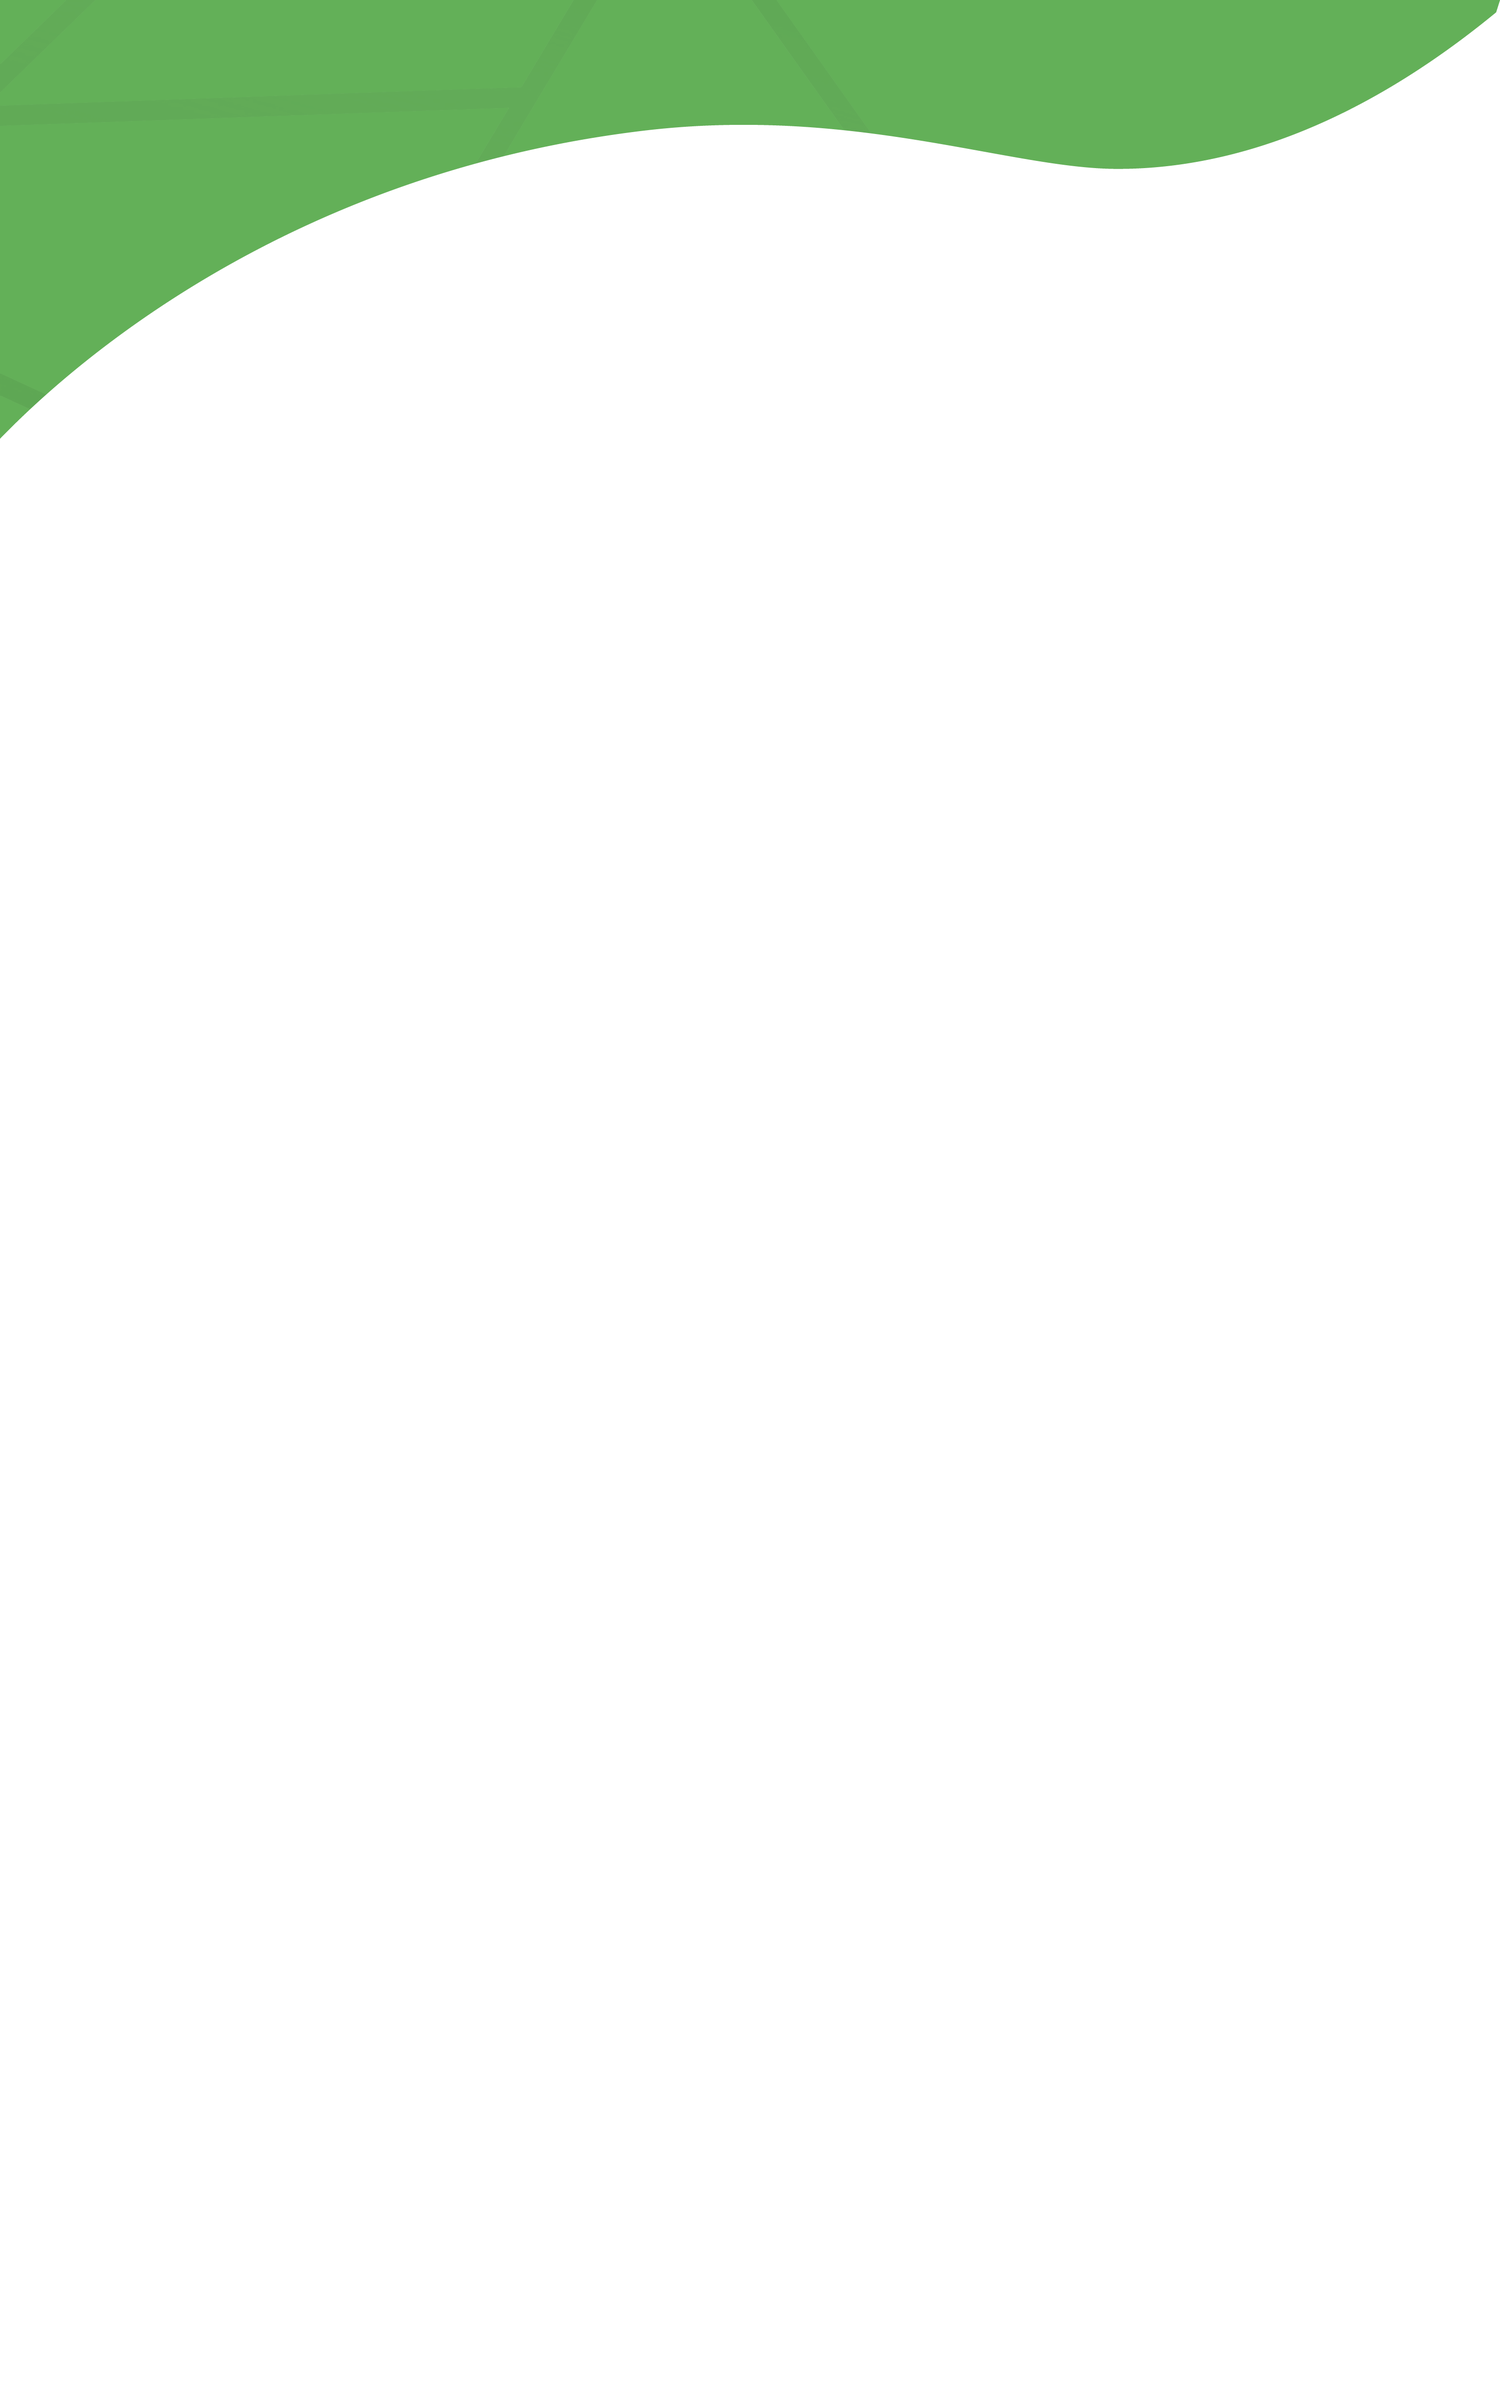
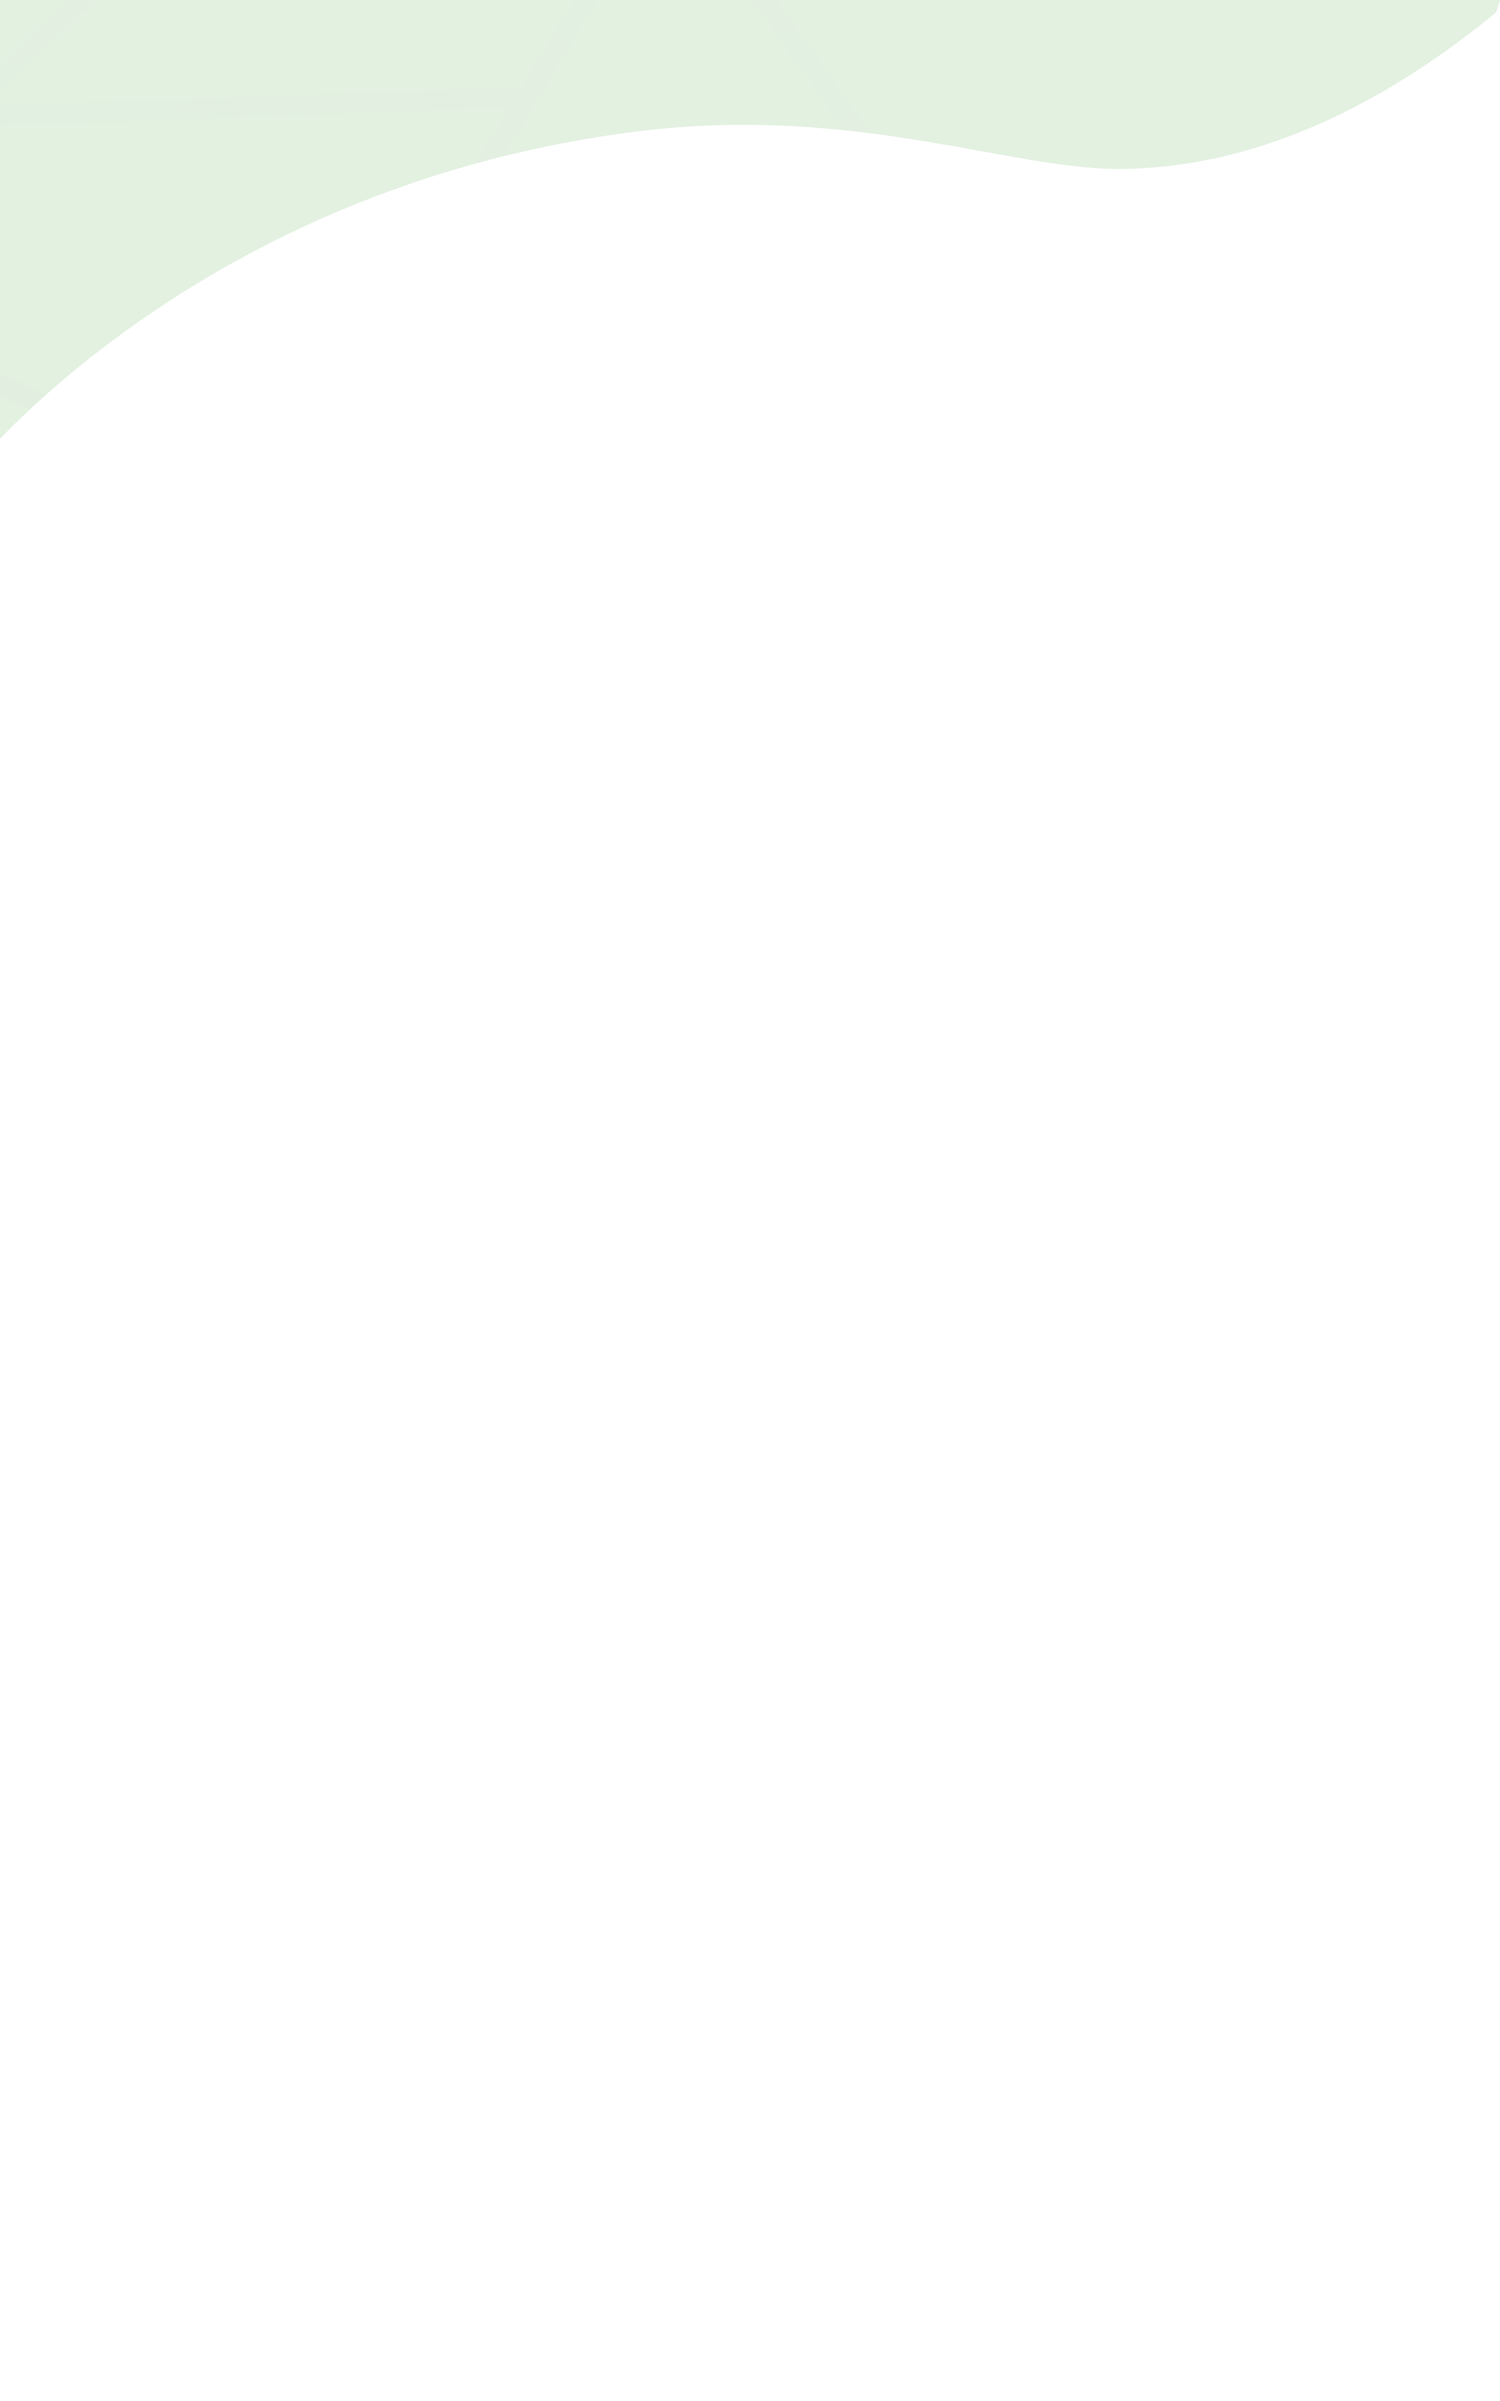
Tame the green and add headroom

Changed region(s): [[0.0, 0.0, 1.0, 0.1872]]

diff --git a/layout/header.tsx b/layout/header.tsx
@@ -6,6 +6,7 @@ import {
   Box,
   Link as ChakraLink,
 } from 'components';
+import Headroom from 'react-headroom';
 import Link from 'next/link';
 
 import LanguageSwitcher from 'components/language-switcher';
@@ -24,95 +25,98 @@ export default function Header({ page /* lang */ }) {
   const logoHeight = useBreakpointValue({ base: 40, xl: 50 }) || 40;
   const logoTextHeight = useBreakpointValue({ base: 40, xl: 50 }) || 40;
   const logoTextWidth = useBreakpointValue({ base: 100, xl: 120 }) || 100;
+
   return (
-    <Box as="header" position="sticky" top="0" zIndex={100}>
-      <Flex
-        justifyContent="space-between"
-        alignItems="center"
-        as="nav"
-        h="35px"
-        bg="iqaGreen"
-        px={3}
-      >
-        <HStack spacing={2}>
-          <Link href="/news" passHref>
-            <ChakraLink color="white">Latest COVID-19 News</ChakraLink>
+    <Box as={Headroom} zIndex={100}>
+      <Box as="header">
+        <Flex
+          justifyContent="space-between"
+          alignItems="center"
+          as="nav"
+          h="35px"
+          bg="iqaGreen"
+          px={3}
+        >
+          <HStack spacing={2}>
+            <Link href="/news" passHref>
+              <ChakraLink color="white">Latest COVID-19 News</ChakraLink>
+            </Link>
+          </HStack>
+          <HStack spacing={2}>
+            <IconWrapper
+              aria-label="Like us on Facebook"
+              href="https://www.facebook.com/InternationalQuidditchAssociation/"
+              target="_blank"
+              rel="noopener noreferrer"
+            >
+              <Icon as={FacebookIcon} />
+            </IconWrapper>
+
+            <IconWrapper
+              aria-label="Follow us on Twitter"
+              href="https://twitter.com/IQASport"
+              target="_blank"
+              rel="noopener noreferrer"
+            >
+              <Icon as={TwitterIcon} />
+            </IconWrapper>
+
+            <IconWrapper
+              aria-label="Follow us on Instagram"
+              href="https://www.instagram.com/iqasport/"
+              target="_blank"
+              rel="noopener noreferrer"
+            >
+              <Icon as={InstagramIcon} />
+            </IconWrapper>
+
+            <IconWrapper
+              aria-label="Subscribe to our Youtube Channel"
+              href="https://www.youtube.com/InternationalQuidditchAssociation"
+              target="_blank"
+              rel="noopener noreferrer"
+            >
+              <Icon as={YoutubeIcon} />
+            </IconWrapper>
+          </HStack>
+        </Flex>
+        <Flex
+          justifyContent="space-between"
+          alignItems="center"
+          as="nav"
+          h="70px"
+          bg="white"
+          boxShadow="md"
+          px={3}
+        >
+          <Link href="/" passHref>
+            <ChakraLink>
+              <HStack spacing={2}>
+                <Image
+                  src="/images/logo.png"
+                  alt="International Quidditch Association"
+                  priority={true}
+                  layout="fixed"
+                  height={logoHeight}
+                  width={logoHeight}
+                  borderRadius="0"
+                />
+                <Image
+                  src="/images/logo-text.png"
+                  alt="International Quidditch Association"
+                  priority={true}
+                  layout="fixed"
+                  height={logoTextHeight}
+                  width={logoTextWidth}
+                  borderRadius="0"
+                />
+              </HStack>
+            </ChakraLink>
           </Link>
-        </HStack>
-        <HStack spacing={2}>
-          <IconWrapper
-            aria-label="Like us on Facebook"
-            href="https://www.facebook.com/InternationalQuidditchAssociation/"
-            target="_blank"
-            rel="noopener noreferrer"
-          >
-            <Icon as={FacebookIcon} />
-          </IconWrapper>
 
-          <IconWrapper
-            aria-label="Follow us on Twitter"
-            href="https://twitter.com/IQASport"
-            target="_blank"
-            rel="noopener noreferrer"
-          >
-            <Icon as={TwitterIcon} />
-          </IconWrapper>
-
-          <IconWrapper
-            aria-label="Follow us on Instagram"
-            href="https://www.instagram.com/iqasport/"
-            target="_blank"
-            rel="noopener noreferrer"
-          >
-            <Icon as={InstagramIcon} />
-          </IconWrapper>
-
-          <IconWrapper
-            aria-label="Subscribe to our Youtube Channel"
-            href="https://www.youtube.com/InternationalQuidditchAssociation"
-            target="_blank"
-            rel="noopener noreferrer"
-          >
-            <Icon as={YoutubeIcon} />
-          </IconWrapper>
-        </HStack>
-      </Flex>
-      <Flex
-        justifyContent="space-between"
-        alignItems="center"
-        as="nav"
-        h="70px"
-        bg="white"
-        boxShadow="md"
-        px={3}
-      >
-        <Link href="/" passHref>
-          <ChakraLink>
-            <HStack spacing={2}>
-              <Image
-                src="/images/logo.png"
-                alt="International Quidditch Association"
-                priority={true}
-                layout="fixed"
-                height={logoHeight}
-                width={logoHeight}
-                borderRadius="0"
-              />
-              <Image
-                src="/images/logo-text.png"
-                alt="International Quidditch Association"
-                priority={true}
-                layout="fixed"
-                height={logoTextHeight}
-                width={logoTextWidth}
-                borderRadius="0"
-              />
-            </HStack>
-          </ChakraLink>
-        </Link>
-
-        <LanguageSwitcher altLangs={page?.alternate_languages} />
-      </Flex>
+          <LanguageSwitcher altLangs={page?.alternate_languages} />
+        </Flex>
+      </Box>
     </Box>
   );
 }

diff --git a/components/slice.tsx b/components/slice.tsx
@@ -41,7 +41,7 @@ export const SliceStyles = {
       zIndex: '1',
     },
     white: {
-      background: 'white',
+      background: 'gray.100',
       color: 'gray.800',
     },
   },
@@ -96,7 +96,7 @@ export default function Slice({
         <Box
           data-type="wave"
           position="relative"
-          bg="white"
+          bg="gray.100"
           sx={{
             '& + section[data-variant="white"]': {
               marginTop: 'calc(100vw * 0.04583705357 * -1)', // covers the svg
@@ -109,7 +109,7 @@ export default function Slice({
               <clipPath id="wave1" clipPathUnits="objectBoundingBox">
                 <path
                   d="M0,1 V0 C0.166,0.788,0.301,0.871,0.395,0.792 C0.486,0.715,0.528,0.492,0.623,0.402 C0.749,0.28,0.876,0.48,1,1"
-                  fill="#fff"
+                  fill="#EDF2F7"
                 />
               </clipPath>
             </defs>
@@ -132,7 +132,7 @@ export default function Slice({
         <Box
           data-type="wave"
           position="relative"
-          bg="white"
+          bg="gray.100"
           sx={{
             '& + section[data-variant="primary"]': {
               marginTop: 'calc(100vw * 0.04583705357 * -1)', // covers the svg
@@ -145,7 +145,7 @@ export default function Slice({
               <clipPath id="wave2" clipPathUnits="objectBoundingBox">
                 <path
                   d="M1,0 C0.82,0.72,0.605,1,0.361,0.924 C0.23,0.779,0.109,0.441,0,0"
-                  fill="#fff"
+                  fill="#EDF2F7"
                 />
               </clipPath>
             </defs>

diff --git a/pages/news/[uid].js b/pages/news/[uid].js
@@ -50,13 +50,12 @@ const Post = ({ page: initialPage, preview, lang }) => {
       <Box
         as="article"
         width="100%"
-        bg="white"
+        bg="gray.100"
         backgroundRepeat="no-repeat"
         backgroundSize="fixed"
         bgImage={{ base: 'none', md: `url(${backgroundImage})` }}
         bgSize="100%"
         height="100%"
-        bgColor="white"
       >
         <NewsHero {...page.data} />
         {PrismicSlice({ sections: page.data.body })}

diff --git a/layout/footer.js b/layout/footer.js
@@ -5,8 +5,8 @@ const logo = '/images/logo_short_monochrome_white.png';
 export default function Footer() {
   return (
     <>
-      <Box bg="white" height="200px" />
-      <Box position="relative" bg="white">
+      <Box bg="gray.100" height="200px" />
+      <Box position="relative" bg="gray.100">
         <svg width="0" height="0" xmlns="http://www.w3.org/2000/svg">
           <defs>
             <clipPath id="wavefooter" clipPathUnits="objectBoundingBox">

diff --git a/components/news-hero.tsx b/components/news-hero.tsx
@@ -28,8 +28,8 @@ const NewsHero = ({ title, date, category, image }) => (
         borderRadius={{ base: 'none', md: '2xl' }}
       />
       <Box p={2} mt={2}>
-        <Text as="em" fontStyle="italic">
-          {image?.copyright}
+        <Text as="em" fontStyle="italic" fontSize="sm">
+          Photo Credit: <strong>{image?.copyright}</strong>
         </Text>
       </Box>
     </Container>

diff --git a/components/prismic/hero.tsx b/components/prismic/hero.tsx
@@ -11,7 +11,7 @@ const Hero = (rawData) => {
 
   return (
     <Box
-      bg="white"
+      bg="gray.100"
       as="section"
       position="relative"
       backgroundSize="cover"

diff --git a/components/horizontal-card.tsx b/components/horizontal-card.tsx
@@ -27,7 +27,7 @@ export const HorizontalCardStyles = {
       color: 'black',
     },
     primary: {
-      bg: 'iqaGreen',
+      bg: 'gray.50',
       color: 'black',
     },
   },

diff --git a/components/card.tsx b/components/card.tsx
@@ -28,7 +28,7 @@ export const CardStyles = {
       color: 'black',
     },
     primary: {
-      bg: 'iqaGreen',
+      bg: 'white',
       color: 'black',
     },
   },
